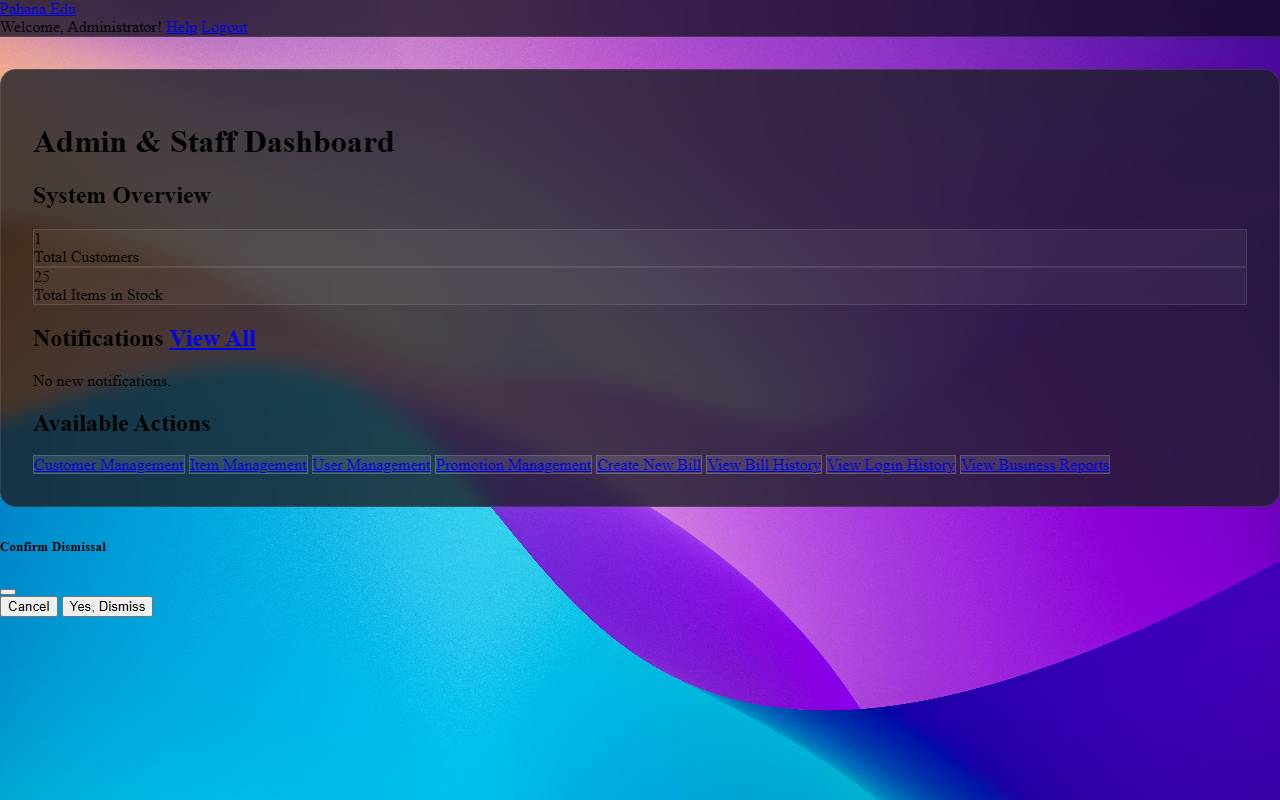
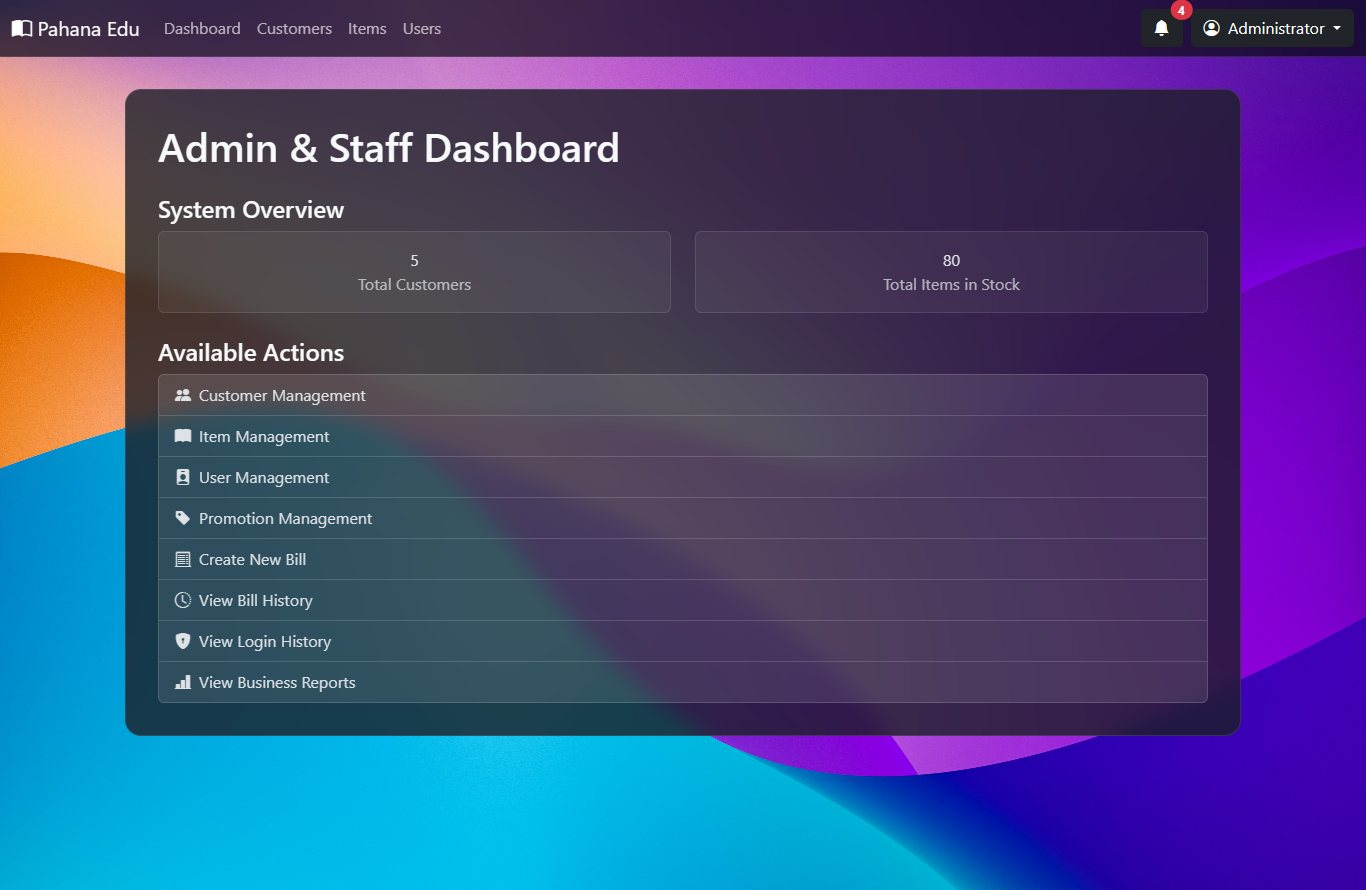
README and screenshots: second browser run on the full current code with the internet on (40 styled screenshots replace the 23 unstyled ones); Maven build verified; tests 37 of 37; problems 15 to 19 and their fixes

diff --git a/README.md b/README.md
@@ -91,40 +91,44 @@ The text above is my own README, unchanged. Everything below was added later, wh
 
 - The history of this repository is the real history of the project: 25 commits by me, 10 to 28 August 2025, which the report links to. Nothing was rewritten.
 - The `Assignment.rar` I submitted stops at commit `54dc14e` ("Bug fix in backend", 20 August 2025). Everything after that commit in this repository was added in November 2026 on top of your own five later commits (26 to 28 August 2025: notification update, print function, animations and loaders, charts for the reports, username check): the database script, the README, the screenshots and the bug fixes below, each in its own commit.
-- **What was checked on which code.** The browser run, the screenshots and the manual checks in this README were made on the 20 August code, before the five later commits were merged in. After the merge, the program compiles and all 32 database tests pass twice in a row on an empty database (31 of the earlier tests plus the username test from 28 August), and 5 new tests of the access filter pass (they need no database). The pages added later (profile, print, charts) were not run in a browser again.
+- **What was checked on which code.** There were two browser runs. The first one (earlier the same day) was made on the 20 August code, with no internet, so the page style was missing. The **second run (the evening of 18 November 2026) was made on the full current code, with the internet on**, so Bootstrap, Bootstrap Icons and Chart.js loaded and every page is styled. In that run I built the program with Maven (`mvn clean package`, which also runs the tests), ran all 37 tests twice on an empty database (32 database tests and the 5 tests of the access filter, all pass), deployed the WAR to a separate Tomcat and walked through every main screen with the three roles in headless Chromium, including the pages added later (profile, print view, reports with the chart, username check, notification bell, page loader). That run found five more problems (15 to 19 below); they are fixed, each in its own commit, and the walk-through was repeated on the fixed code. All screenshots under `docs/screenshots/` come from that second run.
 - `database/CreateDB&TableScripts.sql` is the SQL script that lay next to the project in `Assignment.rar` (it was never inside the Git repository). It was committed as received, then fixed (see below).
 
-## Verified run (18 November 2026)
+## Verified run (18 November 2026, run twice)
 
 | | |
 |---|---|
 | Server | Apache Tomcat 8.5.96 (the one that ships with XAMPP), servlet API 3.1, JSP compile level 1.8 |
 | Database | a throw-away MariaDB 10.4.32 on port 3399, created from the SQL script. The table layout is the same as in my own `pahana_edu` database (compared with `mysqldump --no-data`) |
-| Compiler | JDK 20, `--release 17`, no Maven (a Maven build needs a download that was not allowed, so `mvn package` is **not verified**); the four libraries (`mysql-connector-j 8.4.0`, `jstl 1.2`, `json 20231013`, `protobuf-java 4.28.2`) came from the project's own `target/` folder |
-| Browser | headless Chromium, all addresses except `127.0.0.1` blocked |
+| Build | **Apache Maven 3.9.9 with JDK 20: `mvn clean package` works** (this is the Maven build that was unverified before). The pom's Java 17 setting, the war plugin 3.3.2 and the libraries (`mysql-connector-j 8.4.0`, `jstl 1.2`, `json 20231013`, `protobuf-java 4.28.2`, JUnit 4.13.1) are all found on Maven Central; the result is `target/pahana-edu.war` (6.2 MB) |
+| Browser | headless Chromium 151 driven by Playwright (Node), at 1366 pixels wide, internet on; the page style, icons and charts come from `cdn.jsdelivr.net` as designed |
 
-The pom asks for Servlet 4.0 / Tomcat 9; the code compiles and runs unchanged on Tomcat 8.5 (it uses nothing newer than Servlet 3.1). The program (with the later commits) has 65 classes and 24 JSP pages.
+The pom asks for Servlet 4.0 / Tomcat 9; the code compiles and runs unchanged on Tomcat 8.5 (it uses nothing newer than Servlet 3.1). The program (with the later commits) has 65 classes and 24 JSP pages. In the second run Tomcat had its own `CATALINA_BASE` on port 8096 and the database was a throw-away MariaDB on port 3399 (set with `DB_URL`, `DB_USER`, `DB_PASSWORD`); nothing else was touched.
 
 Logins in the sample data (from the SQL script): `admin` / `admin123`, `staff` / `staff123`, `kamal` / `kamal123` (a customer). They are demo passwords stored in plain text.
 
 ### Screenshots
 
-These pictures were taken in a run with no internet connection. The page style (Bootstrap) is loaded from a CDN, so it is missing and the pages look plain; the styled pictures are at the top of this page.
-
-Taken from the program exactly as received. **The pages look unstyled**: the program loads Bootstrap 5.3.3 and Bootstrap Icons from `cdn.jsdelivr.net` (about 0.5 MB), and no downloads were allowed, so the browser was not allowed to fetch them. The layout, the data and the behaviour are real; only the styling is missing. The styled screens are in my report (login, dashboard, user management, add item, create bill, bill view).
+All taken on 18 November 2026 (second run), in a headless Chromium at 1366 pixels wide with the internet on, from the current code. The data is made-up demo data (customers `Kamal Perera` from the SQL script plus three invented customers, six books, three promotions). The pictures are in `docs/screenshots/`.
 
 | | |
 |---|---|
 | [login](docs/screenshots/01-login.jpg) · [failed login](docs/screenshots/02-login-failed.jpg) | the login page, and the message after a wrong password |
-| [admin dashboard](docs/screenshots/03-admin-dashboard.jpg) | counts, low-stock notices and the action links |
-| [customers](docs/screenshots/04-customers.jpg) · [add customer](docs/screenshots/05-add-customer-form.jpg) | customer management |
-| [items](docs/screenshots/06-items.jpg) · [promotions](docs/screenshots/07-promotions.jpg) · [users](docs/screenshots/08-users.jpg) | item, promotion and user management (admin) |
-| [create bill](docs/screenshots/09-create-bill-empty.jpg) · [filled in](docs/screenshots/10-create-bill-filled.jpg) · [bill just created](docs/screenshots/11-bill-just-created.jpg) | the billing screen: 20 copies of one book, a 10 % promotion, 5 % tax. The bill says "Bill ID #0" (see problem 8) |
-| [bill history](docs/screenshots/12-bill-history.jpg) · [record payment](docs/screenshots/13-record-payment.jpg) | staff: all bills, and paying one |
-| [reports](docs/screenshots/14-reports.jpg) · [login history](docs/screenshots/15-login-history.jpg) · [low-stock notifications](docs/screenshots/16-low-stock-notifications.jpg) · [help](docs/screenshots/17-help.jpg) | reports, log of logins, notification history, help page |
-| [customer dashboard](docs/screenshots/18-customer-dashboard.jpg) · [available items](docs/screenshots/19-customer-view-items.jpg) · [my bills](docs/screenshots/20-customer-my-bills.jpg) · [make payment](docs/screenshots/21-customer-make-payment.jpg) | what the customer role sees |
+| [admin dashboard](docs/screenshots/03-admin-dashboard.jpg) · [notification bell](docs/screenshots/04-notification-bell.jpg) · [user menu](docs/screenshots/05-user-menu.jpg) | counts and action links; the low-stock notices in the bell; profile, help and logout |
+| [customers](docs/screenshots/06-customers.jpg) · [add customer](docs/screenshots/07-add-customer-form.jpg) | customer management |
+| [items](docs/screenshots/08-items.jpg) · [add item](docs/screenshots/09-add-item-form.jpg) · [promotions](docs/screenshots/10-promotions.jpg) | item and promotion management (admin) |
+| [users](docs/screenshots/11-users.jpg) · [username taken](docs/screenshots/12-username-taken.jpg) · [username free](docs/screenshots/13-username-available.jpg) · [edit user](docs/screenshots/14-edit-user-form.jpg) | user management, with the live username check |
+| [create bill](docs/screenshots/15-create-bill-empty.jpg) · [filled in](docs/screenshots/16-create-bill-filled.jpg) · [walk-in customer](docs/screenshots/17-create-bill-walkin.jpg) | the billing screen: two books, a 10 % promotion, 5 % tax and a service charge of Rs 100 |
+| [bill just created](docs/screenshots/18-bill-just-created.jpg) · [print layout](docs/screenshots/19-bill-print-layout.jpg) | the bill page right after creating it (it says "Bill ID #1", problem 8); what the "Print Invoice" button prints (shown with the browser's default "no background graphics") |
+| [bill history](docs/screenshots/20-bill-history.jpg) · [record payment](docs/screenshots/21-record-payment.jpg) | staff: all bills, and paying one |
+| [reports](docs/screenshots/22-reports.jpg) · [login history](docs/screenshots/23-login-history.jpg) · [low-stock notifications](docs/screenshots/24-low-stock-notifications.jpg) · [help](docs/screenshots/25-help.jpg) | reports with the best-seller chart, log of logins, notification history, help page |
+| [profile](docs/screenshots/26-profile.jpg) · [passwords do not match](docs/screenshots/27-profile-password-mismatch.jpg) · [saved](docs/screenshots/28-profile-saved.jpg) | the profile page (admin and staff) |
+| [page loader](docs/screenshots/29-page-loader.jpg) | the spinner shown while a page loads (the script file was held back for four seconds to catch it) |
+| [staff dashboard](docs/screenshots/30-staff-dashboard.jpg) · [staff bill history](docs/screenshots/31-staff-bill-history.jpg) | what the staff role sees (no Users menu) |
+| [customer dashboard](docs/screenshots/32-customer-dashboard.jpg) · [available items](docs/screenshots/33-customer-view-items.jpg) · [my bills](docs/screenshots/34-customer-my-bills.jpg) · [own bill](docs/screenshots/35-customer-bill-view.jpg) · [make payment](docs/screenshots/36-customer-make-payment.jpg) · [bills after paying](docs/screenshots/37-customer-bills-after-payment.jpg) | what the customer role sees (no notification bell, problem 16) |
+| [no items](docs/screenshots/38-validation-no-items.jpg) · [not enough stock](docs/screenshots/39-validation-not-enough-stock.jpg) · [negative service charge](docs/screenshots/40-validation-negative-service-charge.jpg) | the bill is refused on the server with a red message (problem 9) |
 
-The data in the screenshots is test data made during the run (one extra customer, one extra item); the books and the customer `Kamal Perera` come from the sample data in the SQL script.
+That is 40 pictures. The error pages for "403 Forbidden" (a customer opening an admin page) are Tomcat's own plain pages and are not pictured.
 
 ### What works
 
@@ -132,7 +136,7 @@ Login with the three roles and their different menus, customer, item, promotion 
 
 ## Problems found when running it
 
-Found by running it with the three roles and by sending requests by hand. The "Fixed in" column names the commit that fixes it (all after the first two commits, which are the work as received and this README).
+Found by running it with the three roles and by sending requests by hand (problems 15 to 19 in the second run, on the full current code). The "Fixed in" column names the commit that fixes it (all after the first two commits, which are the work as received and this README).
 
 | # | Problem | How it shows | Fixed in |
 |---|---|---|---|
@@ -150,12 +154,17 @@ Found by running it with the three roles and by sending requests by hand. The "F
 | 12 | 7 of the 31 unit tests (at that time) fail on a fresh database | they assume rows that only existed in my own database (customer 5, bill 2, promotion 8, ...) and depend on the order the tests run in | commit "Tests: every test makes the rows it needs (31 of 31 pass on an empty database, and again on the same one)" |
 | 13 | IDE state (`.idea/`) was committed in the original history | | commit "Stop tracking the IDE state" |
 | 14 | **The login check could be skipped with a fake file ending** | the filter treated any address ending in `.css` or `.js` as a public file and looked at the raw address, so `/users;x.css` (a path parameter that Tomcat ignores) reached `/users` without logging in, and let staff and customers past their role checks (found by an automated security review of the merged code, November 2026) | commit "Access filter: decide on the servlet path, not on the raw address; static files only from /css and /images" |
-| 15 | Left as they are (design limits, not fixed) | passwords are stored and compared in plain text, and the demo logins in `database/pahana_edu.sql` (`admin/admin123`, `staff/staff123`, ...) are the project's demo data; one shared JDBC connection is used by all requests while `saveBill` switches auto-commit off on it; stock is reduced after, not inside, the bill transaction; no CSRF protection; the Maven build is unverified (no download allowed) | not fixed |
+| 15 | A customer's "View Available Items" link gave "403 Forbidden" | the link on the customer dashboard pointed at `/items?action=view`; `/items` was closed to customers by fix 4 (found in the second browser run) | commit "Customer dashboard: 'View Available Items' pointed at /items ..." |
+| 16 | Customers got a notification bell that failed on every page | the bell asks `/api/dashboard-stats` (shop low-stock alerts), which customers may not call: 403 on every customer page and a JavaScript error "Unexpected token '<'" in the console | commit "Header: no notification bell for customers ..." |
+| 17 | The "Log ID" column of the login history was empty | the page used the tag `c_rt:out`, a prefix that is never declared, so nothing was printed | commit "Login history: the Log ID column was empty ..." |
+| 18 | **Stored script injection on the create-bill page** | an item named `<img src=x onerror=...>` ran its script when the billing page opened (names were printed without escaping in the item list and the customer list) and again when the item was added to the bill (the row was built with `innerHTML`); anybody who can add items or customers (admin, staff) could attack the next person who opens the page | commit "Create-bill page: escape item and customer names ..." |
+| 19 | The profile page said "updated successfully" when the new username was already taken | the database refused the change, the controller ignored the answer, and the logged-in session kept the new name until logout | commit "Profile: a username that is already taken was reported as 'updated successfully' ..." |
+| 20 | Left as they are (design limits and small things, not fixed) | passwords are stored and compared in plain text, and the demo logins in `database/pahana_edu.sql` (`admin/admin123`, `staff/staff123`, ...) are the project's demo data; one shared JDBC connection is used by all requests while `saveBill` switches auto-commit off on it; stock is reduced after, not inside, the bill transaction; no CSRF protection, and deleting a customer, item or user is a plain link (a GET request); deleting an item or customer that already has bills is refused by the database but the page just shows the list again, with no message; "403 Forbidden" and a missing `favicon.ico` (403 for logged-in users) show Tomcat's plain error page / a console error; printing the invoice with "background graphics" ticked also prints the dark panel behind the title | not fixed |
 
 
 ## What the fixes changed, and how each was checked
 
-All checks were repeated after the last fix with the three roles, against a freshly created database.
+Problems 1 to 14 were checked again after their fixes with the three roles against a freshly created database; problems 15 to 19 were checked in a browser (Playwright) against the rebuilt WAR, and the whole walk-through (all 40 screenshots) was repeated on the final code.
 
 | Problem | Check | Result before | Result after |
 |---|---|---|---|
@@ -165,19 +174,24 @@ All checks were repeated after the last fix with the three roles, against a fres
 | 4 | customer POSTs `action=add` to `/items`, opens `/items` | a book was created | 403, nothing created |
 | 5 | customer opens or pays another customer's bill | 200 / payment stored | 403 / nothing stored; own bills still open |
 | 6, 7 | staff open `/view-bill-details?id=1` and `/api/search-items?term=ja` | 403 / 403 | 200 / 200 |
-| 8 | bill page right after creating a bill | "Bill ID #0" | "Bill ID #1" (screenshot [22](docs/screenshots/22-after-fix-bill-number.jpg)) |
-| 9 | empty bill; service charge -500; 100 copies with 25 in stock; letters in a number; tax 150 | all saved (stock -75) or error 500 | each one stays on the form with a red message (screenshot [23](docs/screenshots/23-after-fix-validation-error.jpg)); nothing is saved; a walk-in customer is no longer created when the bill is refused |
+| 8 | bill page right after creating a bill | "Bill ID #0" | "Bill ID #1" (screenshot [18](docs/screenshots/18-bill-just-created.jpg)) |
+| 9 | empty bill; service charge -500; 100 copies with 25 in stock; letters in a number; tax 150 | all saved (stock -75) or error 500 | each one stays on the form with a red message (screenshots [38](docs/screenshots/38-validation-no-items.jpg), [39](docs/screenshots/39-validation-not-enough-stock.jpg), [40](docs/screenshots/40-validation-negative-service-charge.jpg)); nothing is saved; a walk-in customer is no longer created when the bill is refused |
 | 10 | pay Rs 1 on a Rs 9,000 bill; pay a paid bill again | bill became PAID; second payment stored | refused with a message on the bill history / my bills page; only a payment equal to the total of an unpaid bill is accepted |
 | 11 | type in "Filter Books" | the list did not change | the list is filtered while typing |
-| 12 | run the tests on an empty database, then again on the same database | 7 of 31 failed on the first run | all pass both times (32 of 32 after the later commits were merged in) |
+| 12 | run the tests on an empty database, then again on the same database | 7 of 31 failed on the first run | all pass both times (37 of 37 on the current code: 32 database tests and the 5 filter tests; also inside `mvn clean package`) |
 | 13 | | `.idea/` was in the repository | no longer tracked, listed in `.gitignore` (the old commits still contain it) |
 | 14 | try `/users;x.css`, `/users.js` and the same with a staff or customer login (new `AuthFilterTest`, 5 tests) | with the old filter: allowed without logging in, and role checks skipped (3 of the 5 tests fail) | redirect to the login page without a session, 403 for the wrong role; the 5 tests pass |
+| 15 | log in as the customer, click "View Available Items" | 403 | the list of books opens ([33](docs/screenshots/33-customer-view-items.jpg)) |
+| 16 | open any page as the customer, watch the requests and the console | 403 on `/api/dashboard-stats` and a console error on every page | no bell for customers ([32](docs/screenshots/32-customer-dashboard.jpg)), no such request, no error; admin and staff still have it ([04](docs/screenshots/04-notification-bell.jpg)) |
+| 17 | open the login history after a few logins | the Log ID column was empty | the numbers are shown ([23](docs/screenshots/23-login-history.jpg)) |
+| 18 | add an item whose name is `evil <img src=x onerror="document.title='XSS'">`, open the create-bill page, add the item to the bill | the page title became "XSS" on opening | the name is shown as text, the title stays; the item can still be added to the bill |
+| 19 | in the profile, change the username to `staff` (taken); then to a free name; then back | message "updated successfully", name kept in the session only | red message "not saved, may already be taken", nothing changes; a free name is saved and shown in the menu |
 
-Things the fixes do **not** change: after a refused bill the form comes back empty, so the lines have to be added again; a payment must be the full bill total (the database has no "part paid" status); the passwords are still plain text (problem 14).
+Things the fixes do **not** change: after a refused bill the form comes back empty, so the lines have to be added again; a payment must be the full bill total (the database has no "part paid" status); the passwords are still plain text (problem 20).
 
 ## Settings and running
 
 - Database: `DB_URL`, `DB_USER`, `DB_PASSWORD` (environment variables) or `-Dpahana.db.url`, `-Dpahana.db.user`, `-Dpahana.db.password`. The defaults are the old values.
 - **Warning:** `database/pahana_edu.sql` starts with `DROP TABLE IF EXISTS` for every table of the `pahana_edu` database. Do not run it on a server whose `pahana_edu` you want to keep.
 - The tests (`src/test/java/.../dao`) are integration tests: they need the database from the script, and they now add their own rows with names that cannot clash, so they can be run again and again.
-- Build: `mvn clean package` (not run here, see above), then put `target/pahana-edu.war` into Tomcat 9.
+- Build: `mvn clean package` (run and working, see the table above; the tests need the database, so set `DB_URL`, `DB_USER` and `DB_PASSWORD` for a throw-away one first, or add `-DskipTests`), then put `target/pahana-edu.war` into Tomcat 9 (it also runs on Tomcat 8.5). Set the same three variables for Tomcat.
